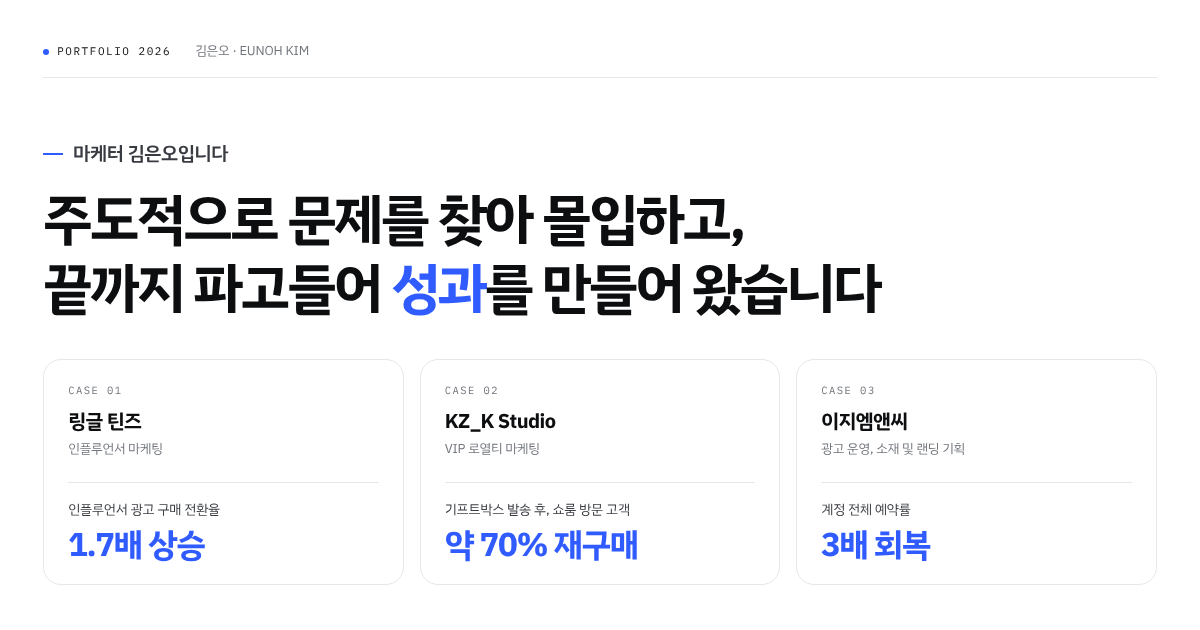
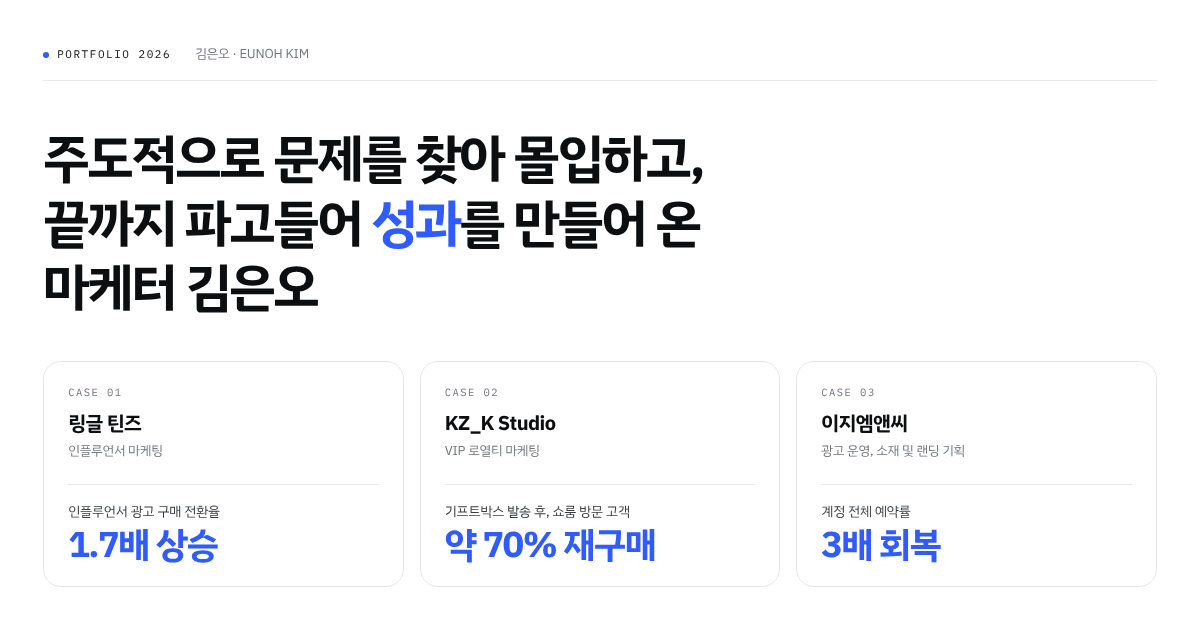
Merge name into hero headline, refresh preview image
Claude-Session: https://claude.ai/code/session_013smscFGWWBPRpsfkpqHfav

diff --git a/portfolio/index.html b/portfolio/index.html
@@ -60,8 +60,6 @@ section[id],article[id]{scroll-margin-top:calc(var(--bar) + 12px)}
 .site-link b{font-weight:700}
 .site-link span{font-family:var(--mono);font-size:12px;letter-spacing:0;overflow-wrap:anywhere}
 .site-link:hover{background:var(--blue);color:#fff}
-.hero-intro{display:flex;align-items:center;gap:10px;margin-bottom:16px;font-size:clamp(17px,1.6vw,21px);font-weight:600;color:var(--ink-2);letter-spacing:-.02em}
-.hero-intro::before{content:"";width:20px;height:2px;background:var(--blue)}
 .hero-title{font-weight:700;font-size:clamp(31px,4.6vw,64px);line-height:1.24;letter-spacing:-.045em}
 .hero-title .hl{color:var(--blue)}
 .hl-band{display:grid;grid-template-columns:repeat(3,minmax(0,1fr));gap:16px;margin-top:clamp(40px,5vw,72px)}
@@ -78,6 +76,7 @@ section[id],article[id]{scroll-margin-top:calc(var(--bar) + 12px)}
   .hl-band{grid-template-columns:minmax(0,1fr);gap:10px}
   .site-link{margin-left:0}
   .hero-title br{display:none}
+  .hero-title br.br-keep{display:inline}
 }
 /* ───────── section heads ───────── */
 .sec{position:relative;padding:clamp(64px,8vw,104px) 0}
@@ -367,8 +366,7 @@ figcaption{margin-top:7px;font-size:12px;color:var(--mute);line-height:1.4}
       <span>김은오 · EUNOH KIM</span>
       <a class="site-link" id="siteLink" href="https://eunohkim9815-pixel.github.io/portfolio/" target="_blank" rel="noopener"><b>웹사이트에서 보기</b><span>eunohkim9815-pixel.github.io/portfolio</span><i aria-hidden="true">↗</i></a>
     </div>
-    <p class="hero-intro">마케터 김은오입니다</p>
-    <h1 class="hero-title">주도적으로 문제를 찾아 몰입하고,<br> 끝까지 파고들어 <span class="hl">성과</span>를 만들어 왔습니다</h1>
+    <h1 class="hero-title">주도적으로 문제를 찾아 몰입하고,<br> 끝까지 파고들어 <span class="hl">성과</span>를 만들어 온<br class="br-keep"> 마케터 김은오</h1>
     <nav class="hl-band" aria-label="케이스 바로가기">
       <a class="hi" href="#case-1" data-case="1">
         <span class="mono">Case 01</span>
@@ -832,7 +830,7 @@ figcaption{margin-top:7px;font-size:12px;color:var(--mute);line-height:1.4}
   var seen = {};
   if ('IntersectionObserver' in window) {
     var navIO = new IntersectionObserver(function(es){ es.forEach(function(en){ if (en.isIntersecting) navLinks.forEach(function(a){ a.classList.toggle('on', a.getAttribute('href') === '#' + en.target.id); }); }); }, {rootMargin:'-45% 0px -50% 0px'});
-    ['about','projects','contact'].forEach(function(id){ var el=document.getElementById(id); if (el) navIO.observe(el); });
+    ['top','about','projects','contact'].forEach(function(id){ var el=document.getElementById(id); if (el) navIO.observe(el); });
     var viewIO = new IntersectionObserver(function(es){ es.forEach(function(en){ var id = en.target.id; if (en.isIntersecting && !seen[id]) { seen[id] = 1; track('section_view', {section: id}); } }); }, {threshold:0.3});
     ['about','case-1','case-2','case-3','contact'].forEach(function(id){ var el=document.getElementById(id); if (el) viewIO.observe(el); });
   }
